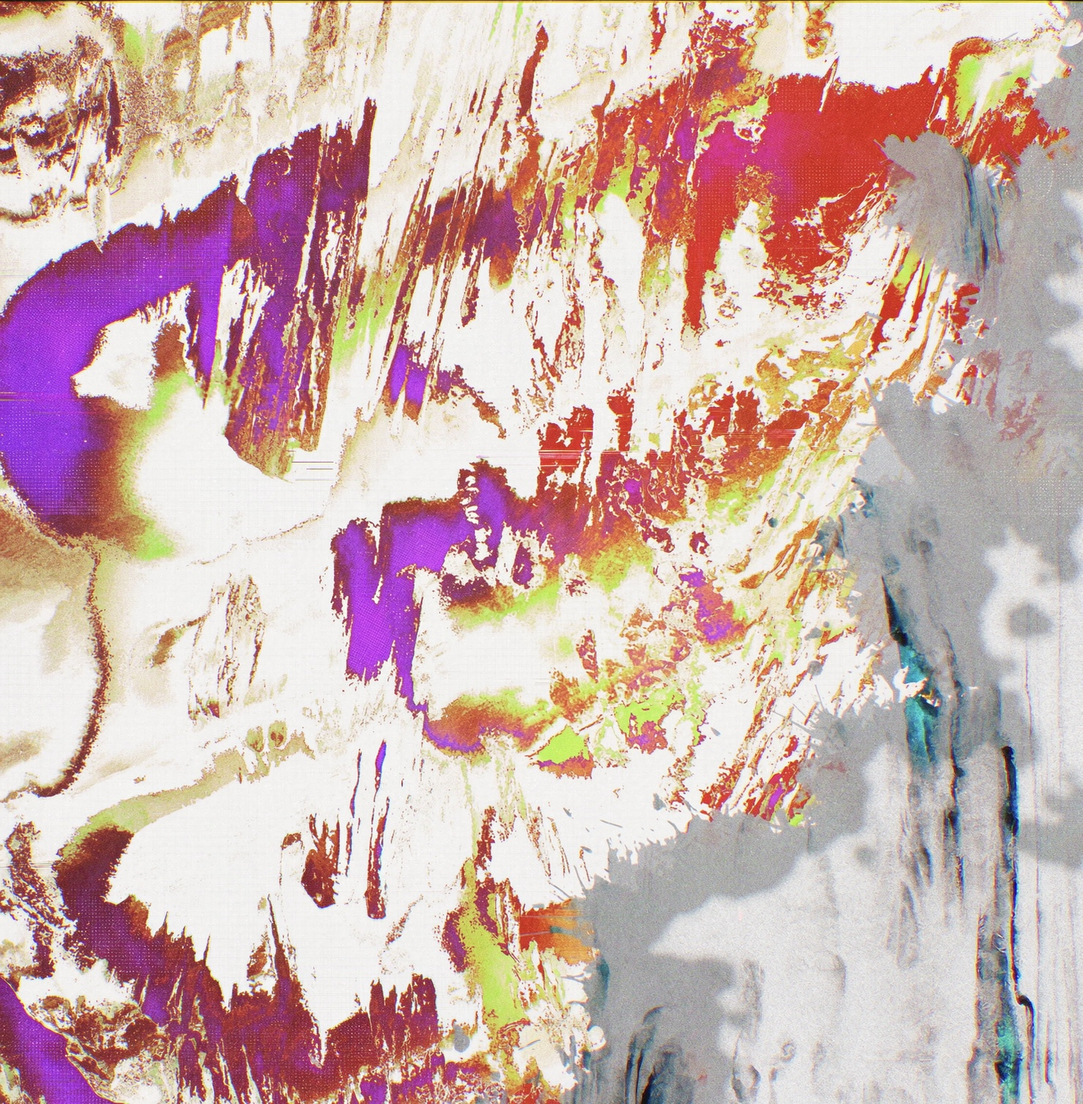
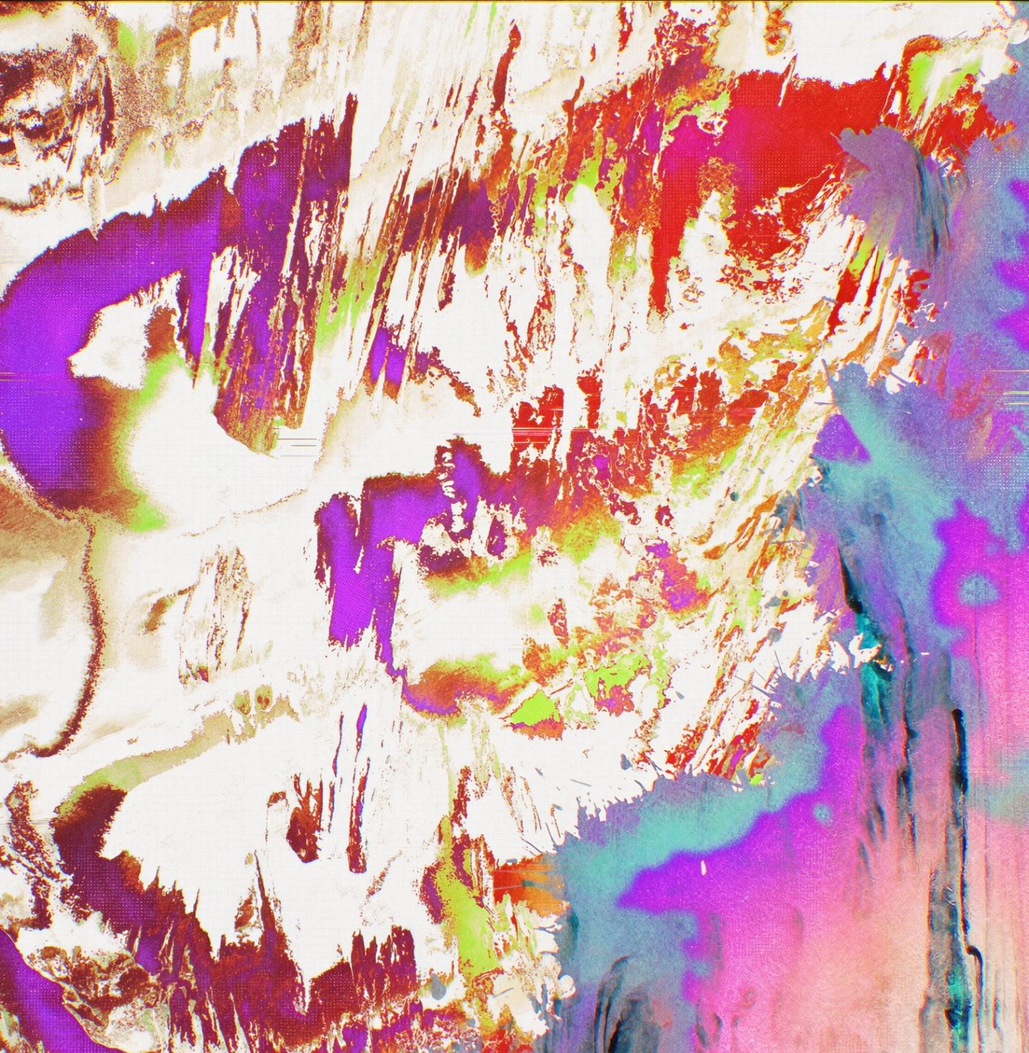
assets: 更新流焱立绘素材并加版本参数

diff --git a/src/home.js b/src/home.js
@@ -269,7 +269,7 @@ const CAST = [
     id: 'liuyan',
     name: '流焱',
     race: '人类 · 初代浮玉将军',
-    img: 'images/cast-liuyan.jpg',
+    img: 'images/cast-liuyan.jpg?v=1122b',
     brief: '白色短发的人类，擅长青焰、可瞬移。领兵统一浮玉，洒脱豪迈，卸甲后云游四海。',
     full: [
       '姓名：流焱　种族：人类　外貌锚点：白色短发',
